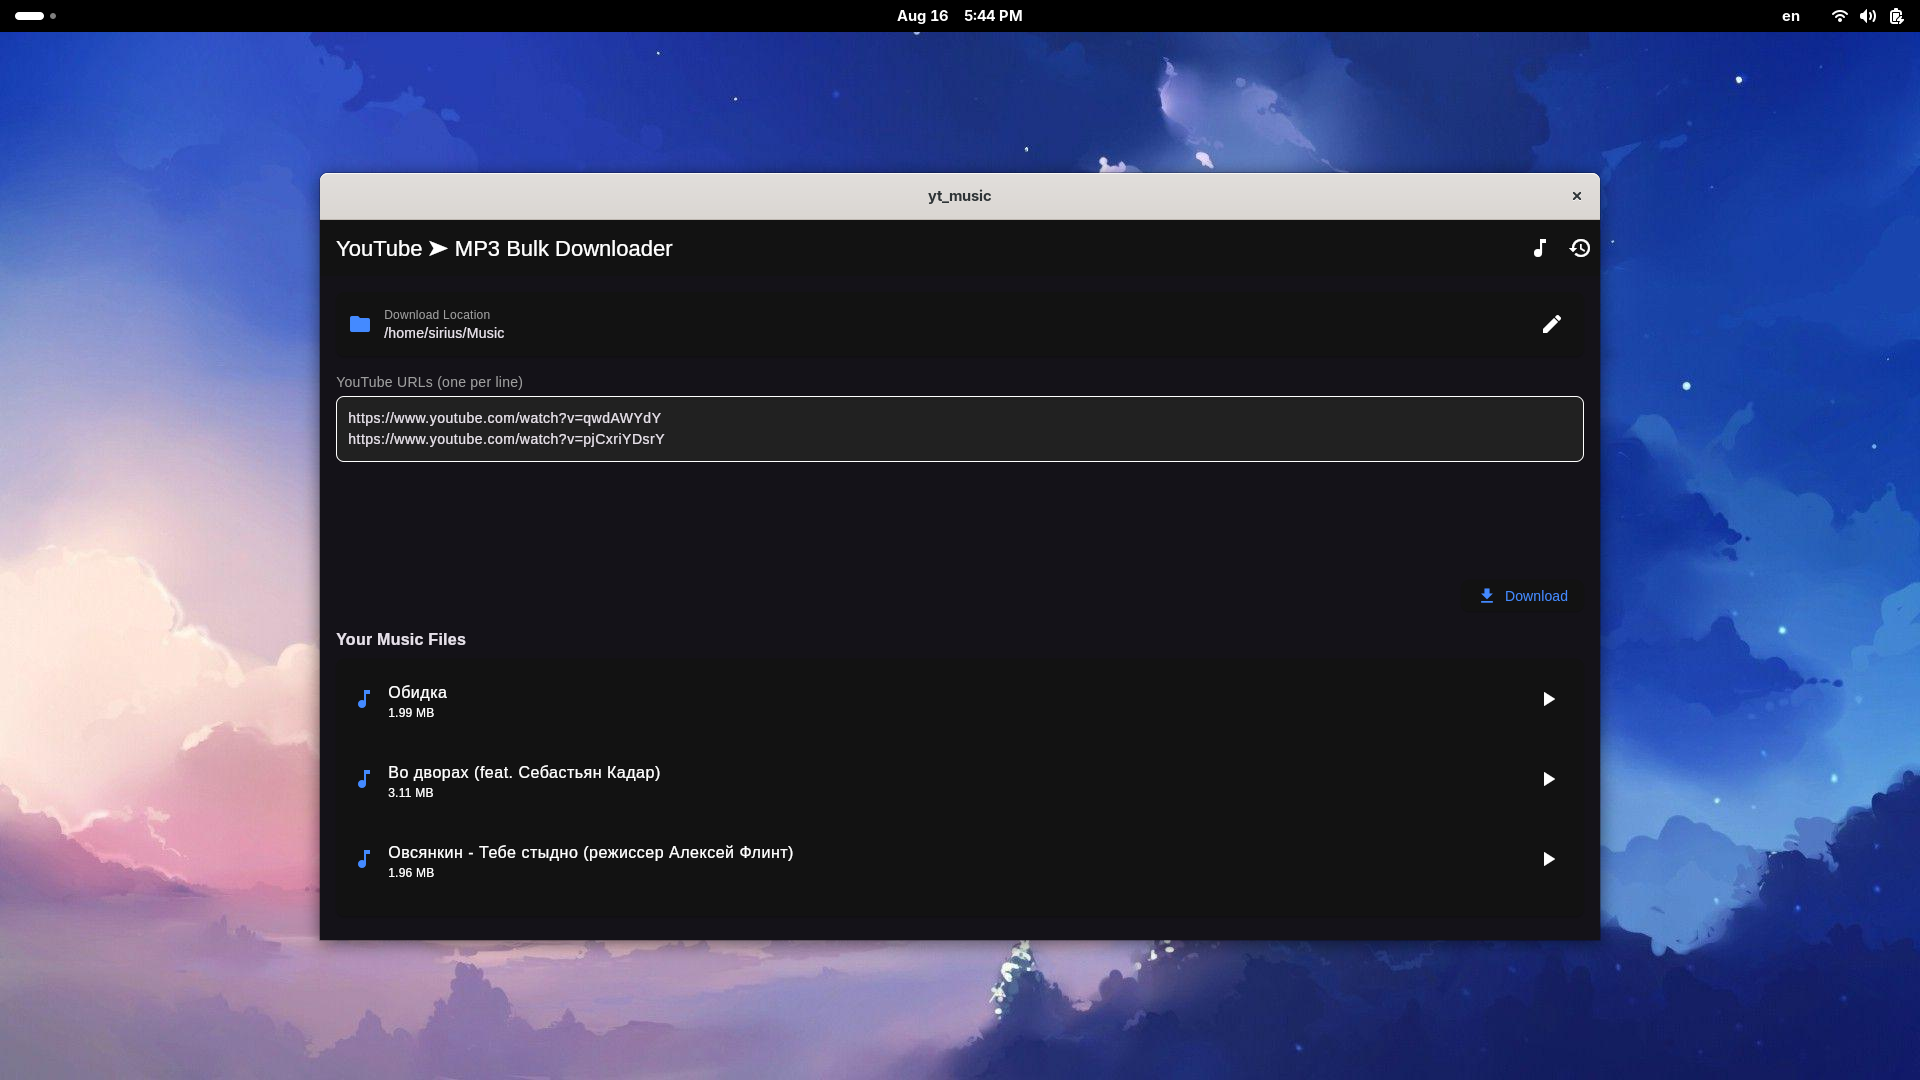
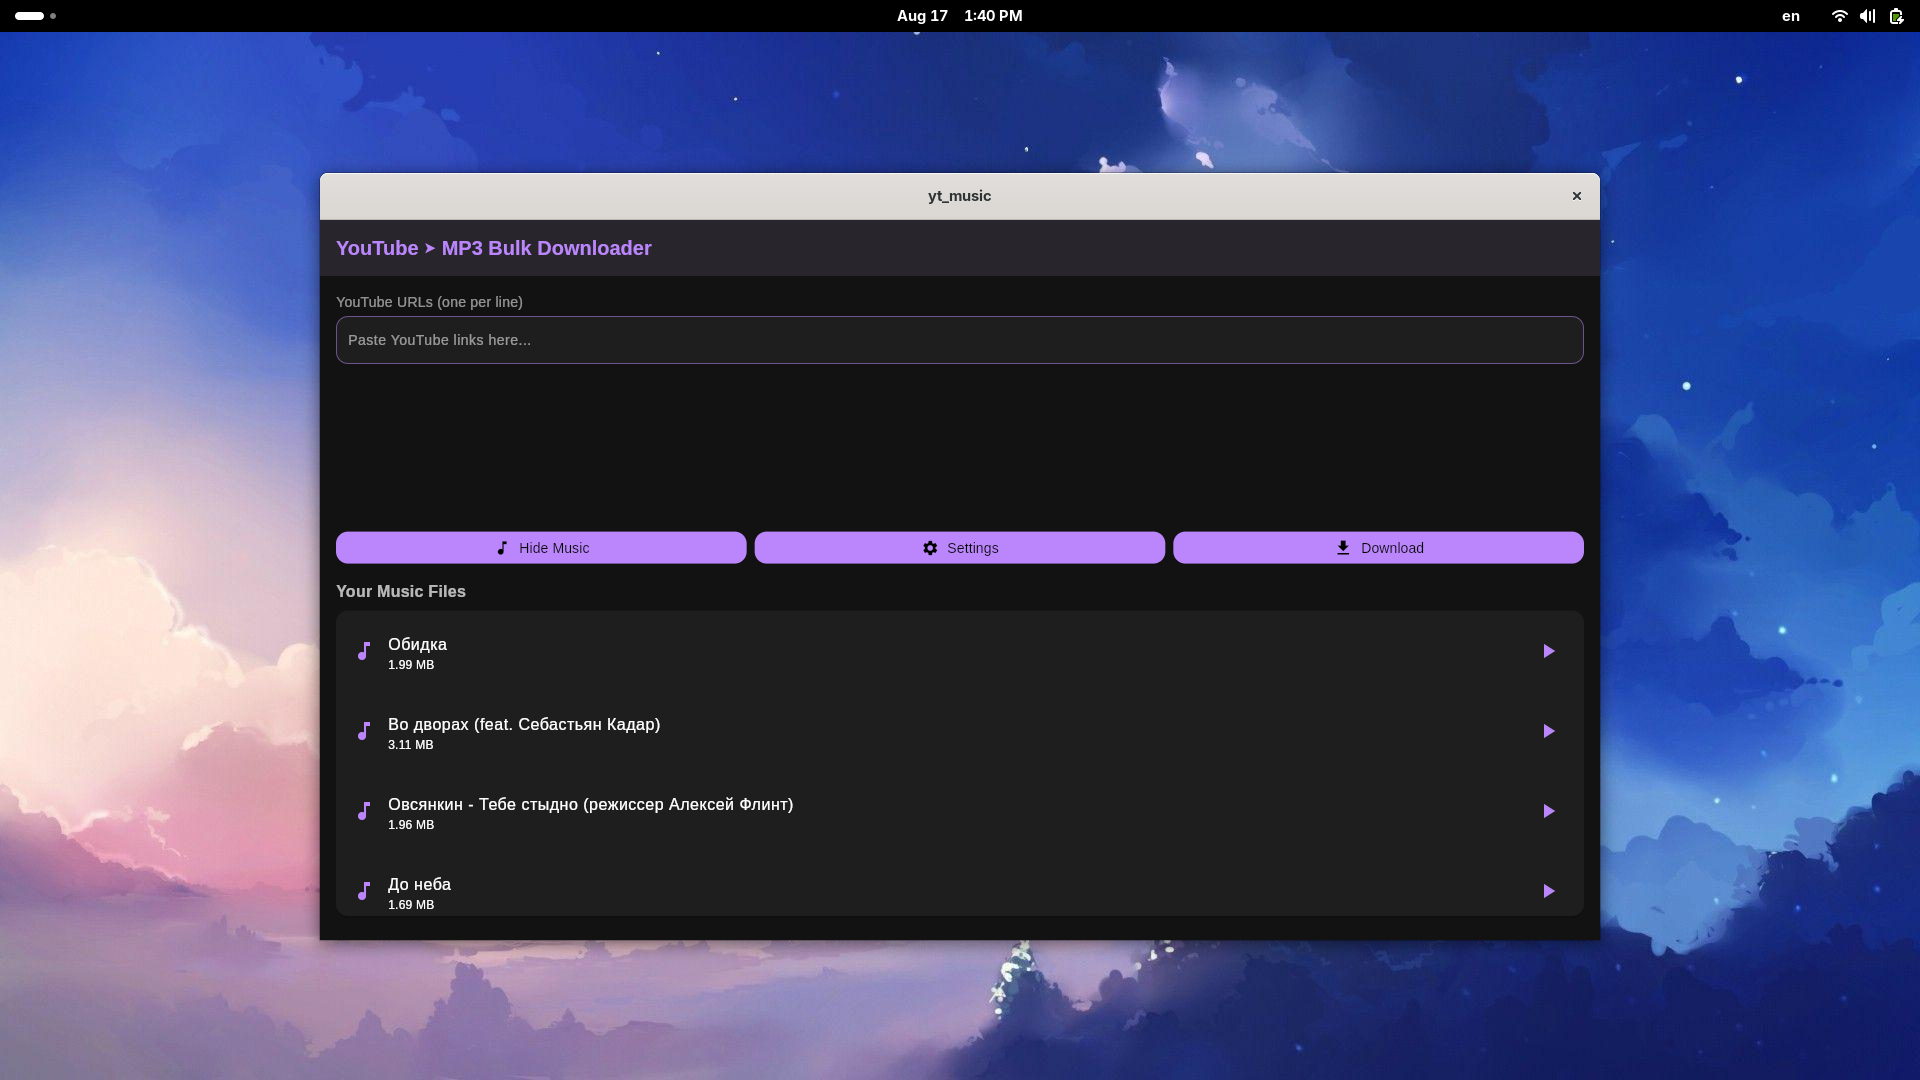
Change app preview.

diff --git a/README.md b/README.md
@@ -1,6 +1,6 @@
 # YouTube to MP3 Downloader
 
-![App Screenshot](https://github.com/shizusr/yt_music/blob/master/screen.png?raw=true)
+![App Screenshot](https://github.com/shizusr/yt_music/blob/master/image.png?raw=true)
 
 ## Prerequisites 📋
 
